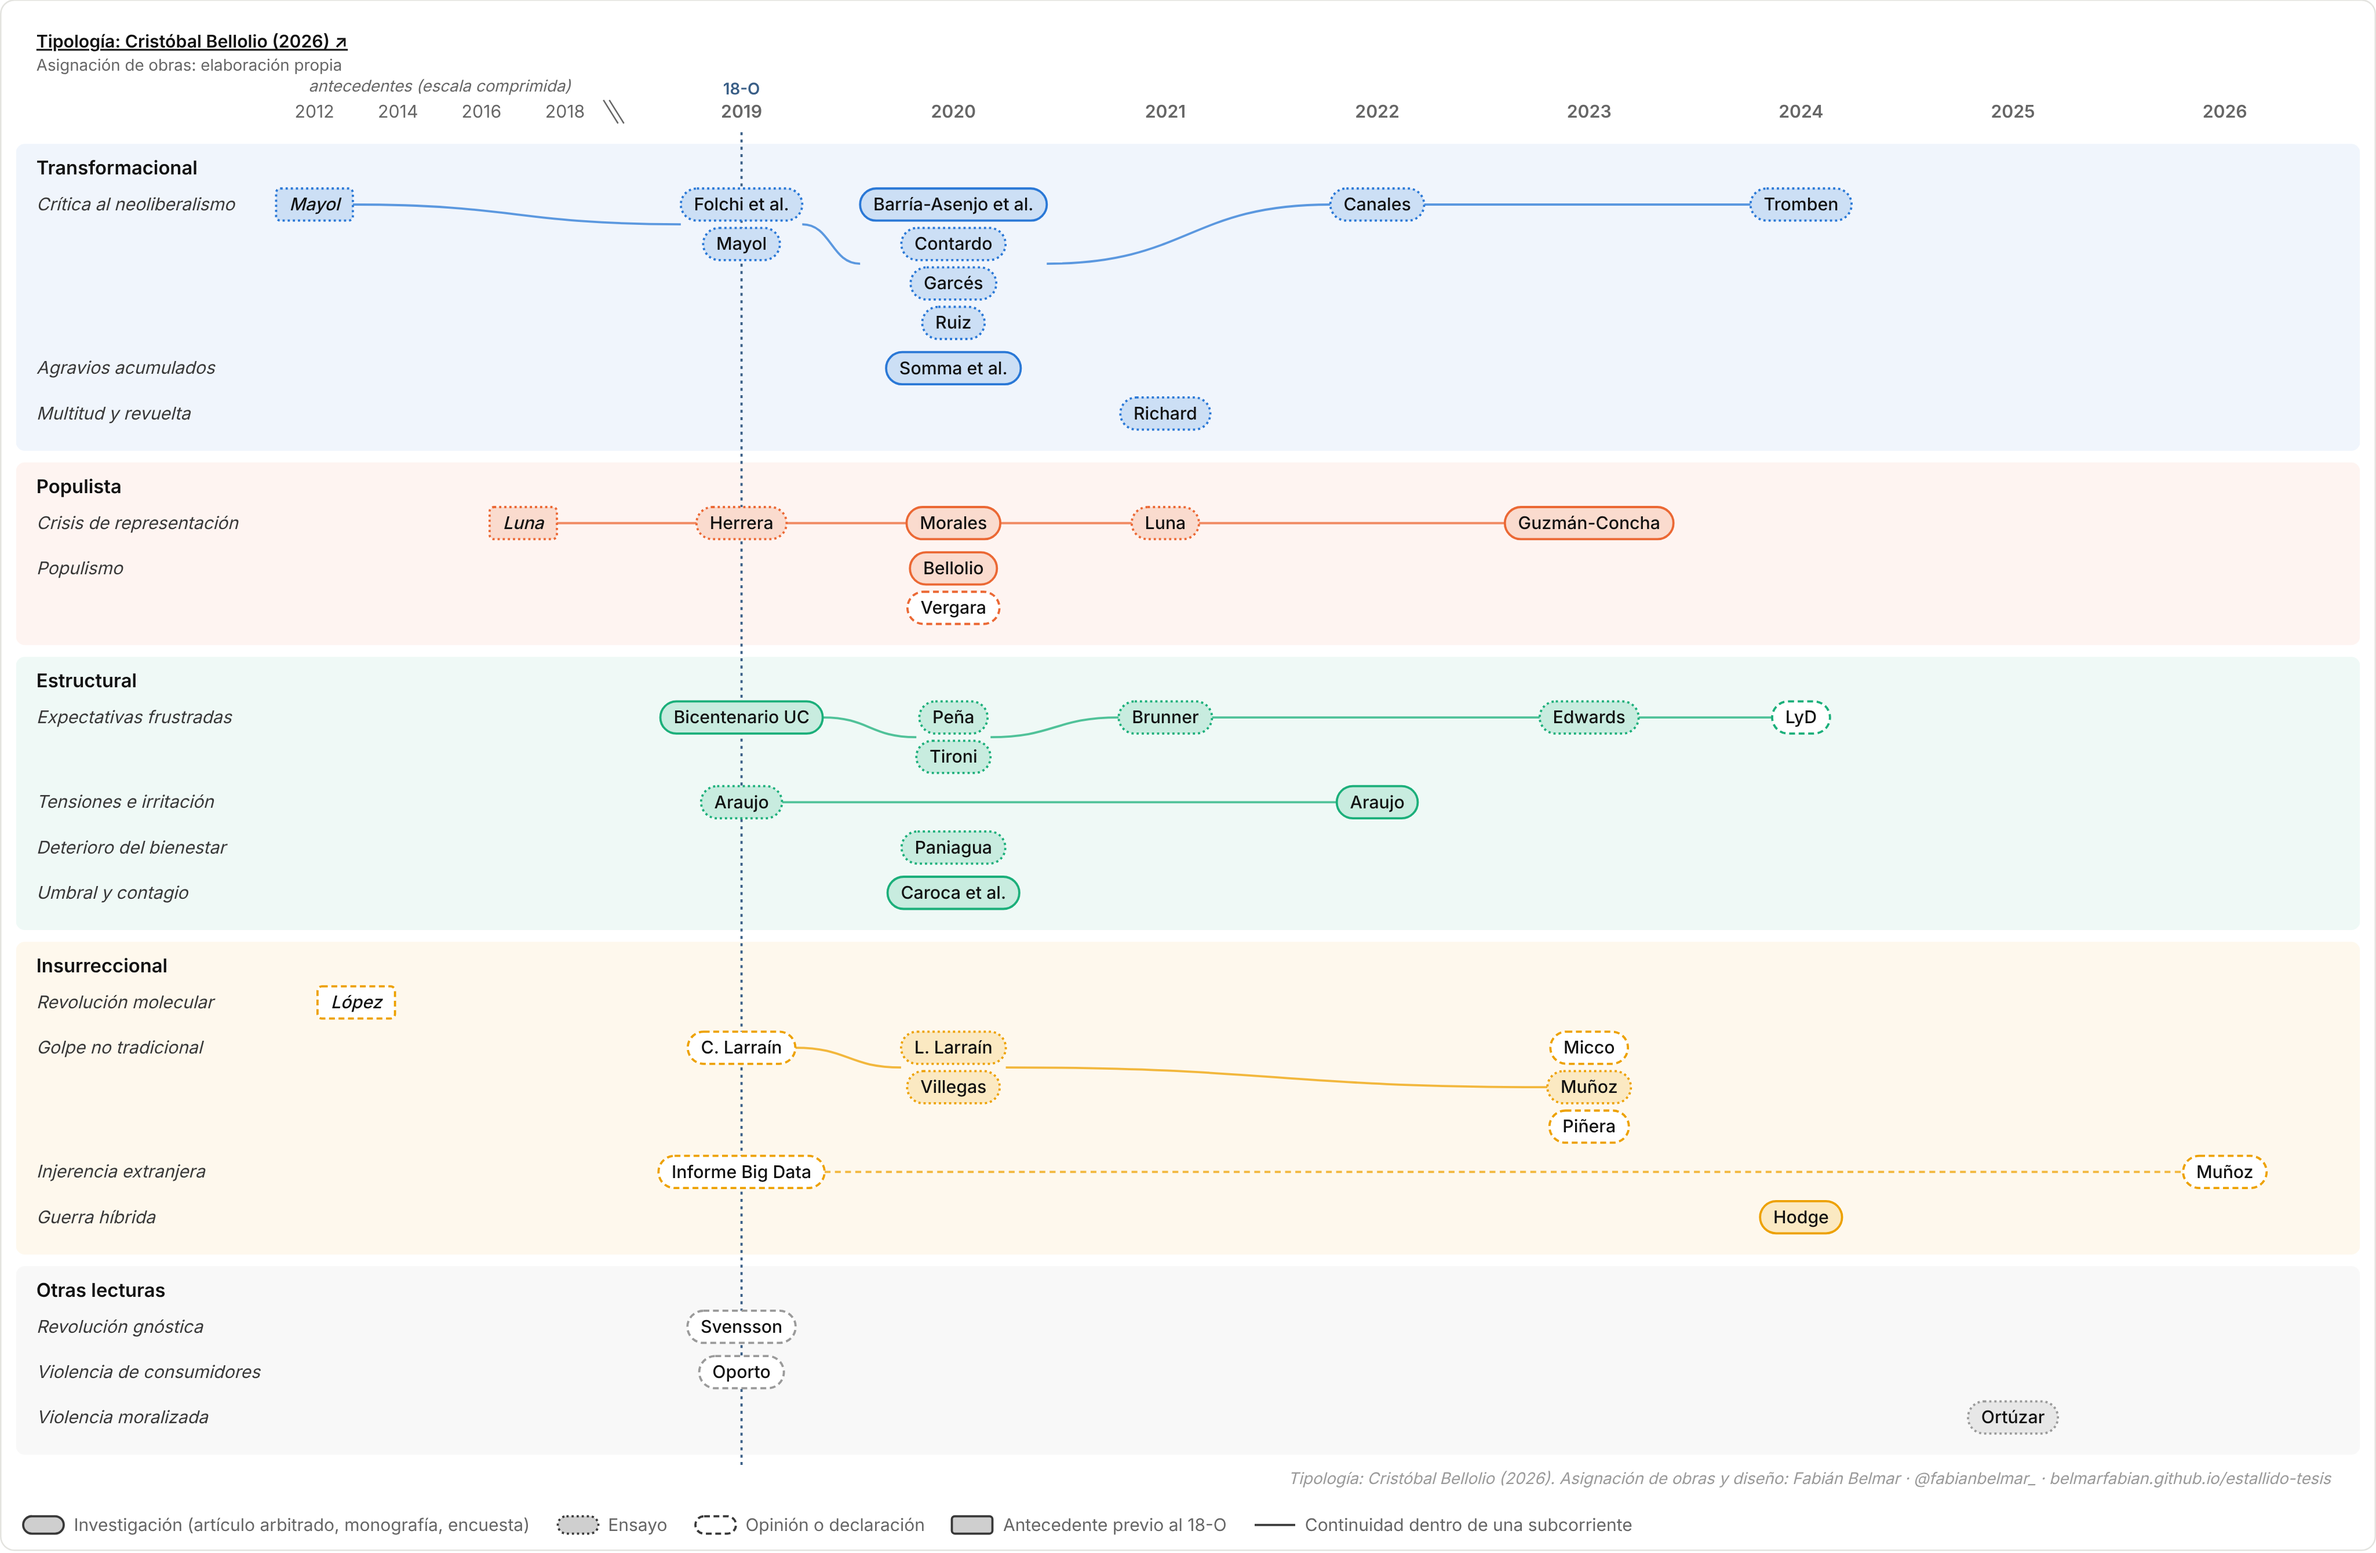
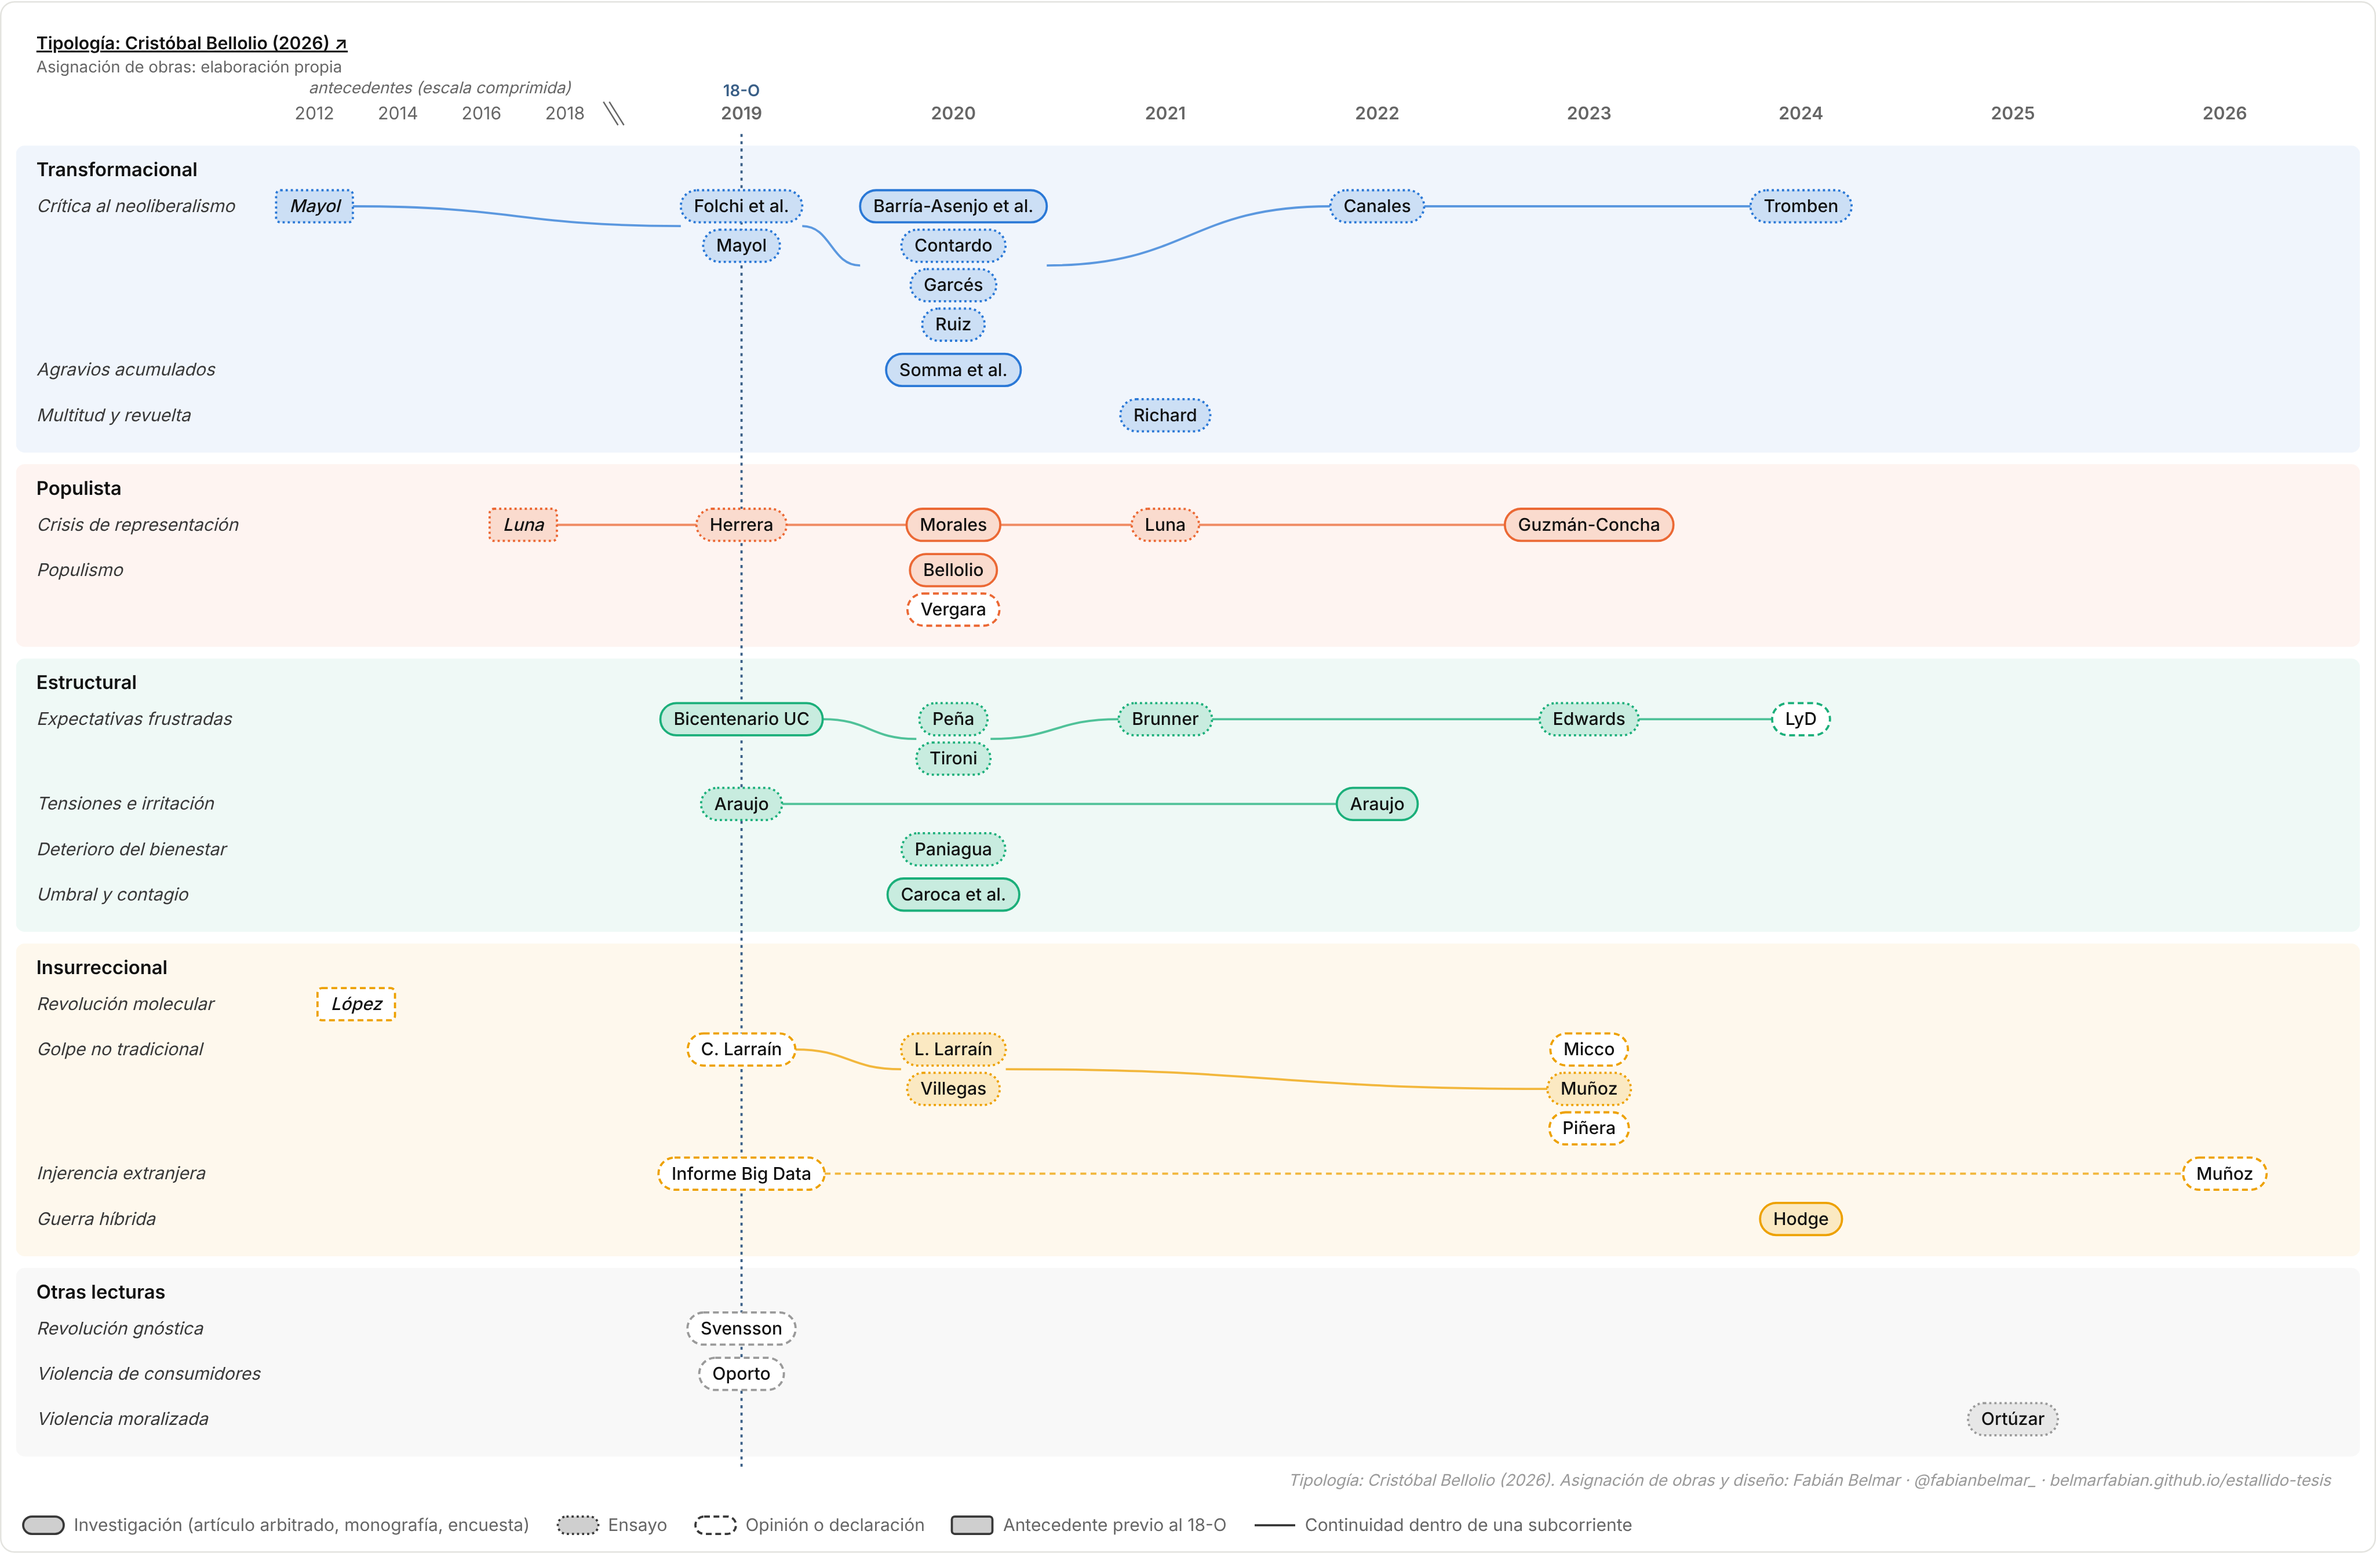
Créditos dentro del mapa solo en las imágenes descargables
Claude-Session: https://claude.ai/code/session_01AycMZX7PjrihgT7aE5Rdm5

diff --git a/estallido-tesis/app.js b/estallido-tesis/app.js
@@ -221,10 +221,10 @@
     g.append("line").attr("x1", bx - 1).attr("x2", bx + 9).attr("y1", top - 30).attr("y2", top - 14).attr("stroke", muted);
     g.append("text").attr("x", (labelW + labelW + preW) / 2).attr("y", top - 36).attr("text-anchor", "middle").attr("font-size", 11)
       .attr("fill", muted).attr("font-style", "italic").text("antecedentes (escala comprimida)");
-    g.append("a").attr("href", "https://x.com/cbellolio/status/2111498263115272614").attr("target", "_blank").attr("rel", "noopener")
+    g.append("a").attr("class", "printonly").attr("href", "https://x.com/cbellolio/status/2111498263115272614").attr("target", "_blank").attr("rel", "noopener")
       .append("text").attr("x", 14).attr("y", top - 66).attr("font-size", 12).attr("font-weight", 600).attr("fill", css("--text"))
       .attr("text-decoration", "underline").text(state.scheme === "emergente" ? "Colores: tesis de Cristóbal Bellolio (2026) ↗" : "Tipología: Cristóbal Bellolio (2026) ↗");
-    g.append("text").attr("x", 14).attr("y", top - 50).attr("font-size", 11).attr("fill", muted)
+    g.append("text").attr("class", "printonly").attr("x", 14).attr("y", top - 50).attr("font-size", 11).attr("fill", muted)
       .text(state.scheme === "emergente" ? "Mecanismos causales codificados desde los textos: elaboración propia" : "Asignación de obras: elaboración propia");
     var ox = X(2019);
     g.append("line").attr("x1", ox).attr("x2", ox).attr("y1", top - 8).attr("y2", H - 22)
@@ -305,7 +305,7 @@
     det.onmouseenter = function () { clearTimeout(hideT); };
     det.onmouseleave = function () { hideT = setTimeout(function () { det.classList.remove("on"); }, 400); };
 
-    svg.append("a").attr("href", "https://belmarfabian.github.io/estallido-tesis/").attr("target", "_blank").attr("rel", "noopener")
+    svg.append("a").attr("class", "printonly").attr("href", "https://belmarfabian.github.io/estallido-tesis/").attr("target", "_blank").attr("rel", "noopener")
       .append("text").attr("x", W - padR).attr("y", H - 10).attr("text-anchor", "end").attr("font-size", 11)
       .attr("fill", css("--faint")).attr("font-style", "italic").text("Tipología: Cristóbal Bellolio (2026). Asignación de obras y diseño: Fabián Belmar · @fabianbelmar_ · belmarfabian.github.io/estallido-tesis");
   }

diff --git a/estallido-tesis/index.html b/estallido-tesis/index.html
@@ -54,6 +54,8 @@ h1{font-family:"Source Serif 4",Georgia,serif;font-weight:600;font-size:clamp(26
 .segb[aria-pressed="true"]{background:var(--text);color:var(--bg)}
 .controls{display:flex;flex-wrap:wrap;gap:8px 14px;align-items:center;margin:22px 0 10px}
 .chips{display:flex;flex-wrap:wrap;gap:6px}
+html:not(.export) #map .printonly{display:none}
+html.export .chiprow{display:none}
 .chiprow{display:flex;flex-wrap:wrap;align-items:center;gap:6px 10px;margin:0 4px 8px;font-size:12px;color:var(--muted)}
 .chiprow .chip{font-size:12px;padding:3px 10px}
 .chip{display:inline-flex;align-items:center;gap:7px;border:1px solid var(--border-strong);background:var(--bg);color:var(--text-2);border-radius:999px;padding:4px 11px 4px 9px;font:inherit;font-size:13px;cursor:pointer}
